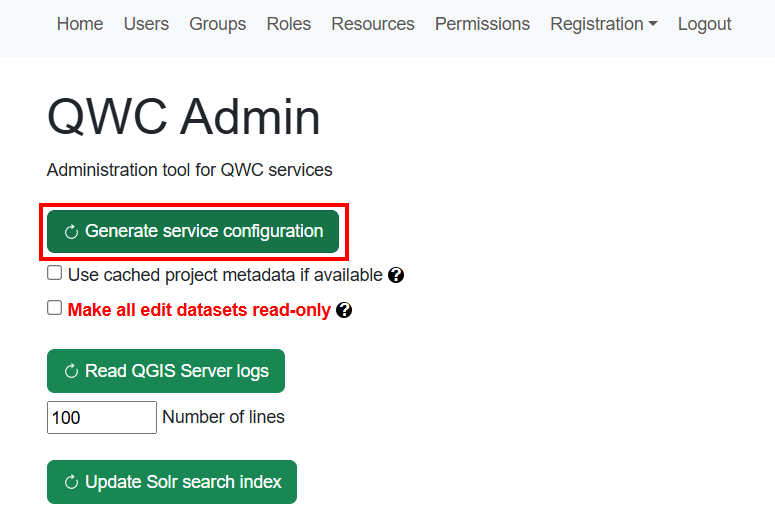
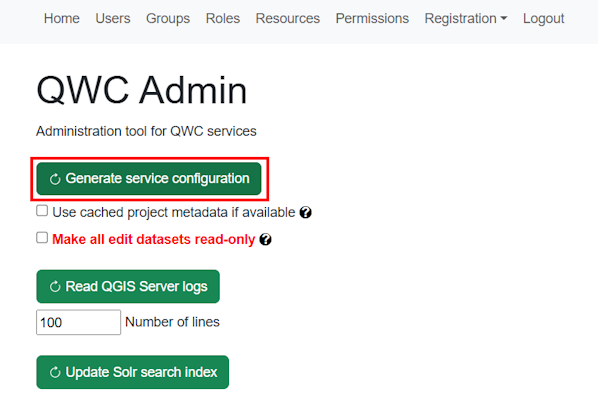
resized all images

diff --git a/docs/development/qgis_webclient.rst b/docs/development/qgis_webclient.rst
@@ -138,7 +138,6 @@ https://docs.qgis.org/3.34/en/docs/user_manual/managing_data_source/opening_data
 PGSERVICEFILE:**
 
 .. image:: ../img/add_environment_variable.png
-   :height: 1.0in
 
 **Connect to the database via service configuration:
 **\ *(use LTS QGIS version 3.34.15 to be compatible with the QGIS server
@@ -163,14 +162,10 @@ student@10.162.28.86:~/qwc-docker/volumes/qgs-resources/scan/project.qgz
 (username: admin, password: qgis-admin)*
 
 .. image:: ../img/login_qwc_admin.png
-   :width: 5.06723in
-   :height: 3.09167in
 
 **Generate service configuration:**
 
 .. image:: ../img/generate_service_configuration.png
-   :width: 4.96077in
-   :height: 3.31667in
 
 **Tips for working with QGIS projects:**
 
@@ -237,8 +232,4 @@ general maintenance techniques are described now:
    on Windows are described above under *Local Configurations*.
 
 .. |image1| image:: ../img/add_postgres_layer.png
-   :width: 3.45784in
-   :height: 4.89861in
 .. |image2| image:: ../img/add_service_name.png
-   :width: 3.24167in
-   :height: 5.49193in
